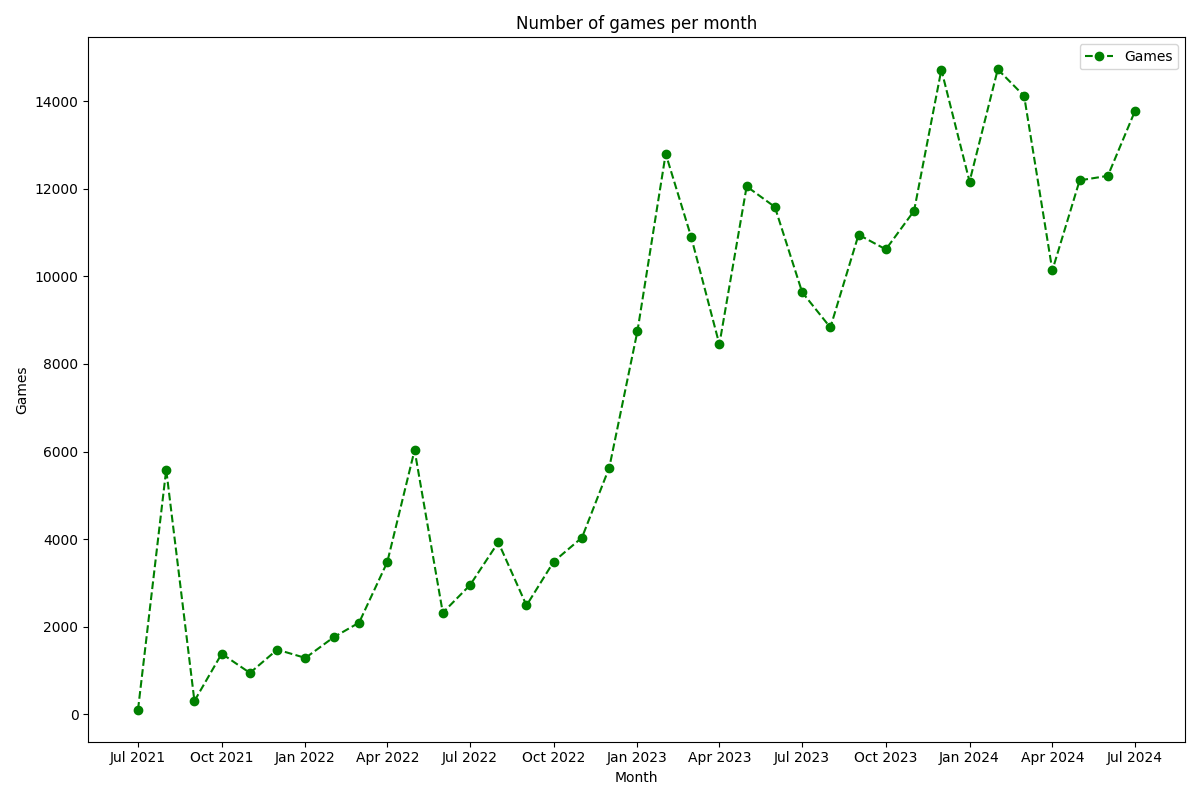
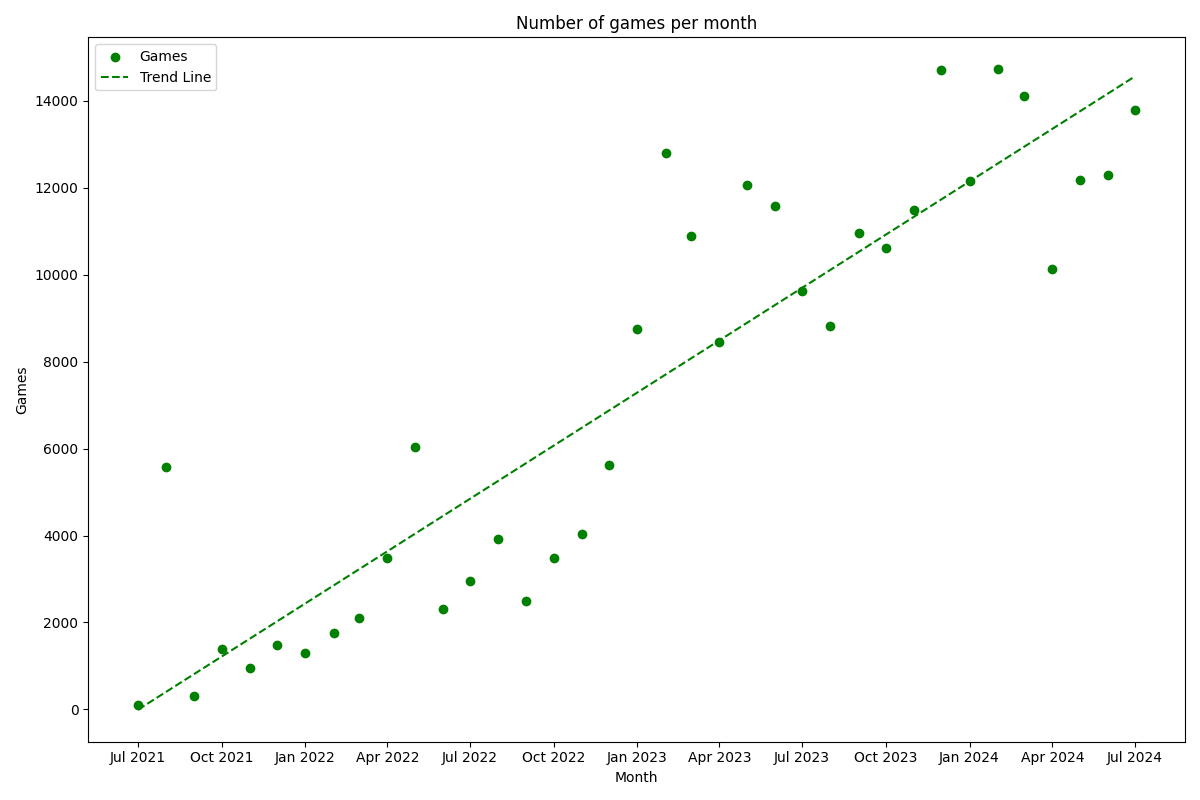
Converting to a scatter graph and adding a line of best fit

diff --git a/csvreader.py b/csvreader.py
@@ -2,6 +2,7 @@ import csv
 import matplotlib.pyplot as plt
 import matplotlib.dates as mdates
 from datetime import date
+import numpy as np
 
 x= []
 y =[]
@@ -20,16 +21,22 @@ with open('games.csv','r') as csvfile:
         year = int(row[0])
 
         date_time_value = mdates.date2num(date(year,month,1))
+        date_time_num = mdates.date2num(date_time_value)
         formatter = mdates.ConciseDateFormatter(date_time_value)
 
         x.append(date_time_value)
         y.append(int(row[2]))
-         
 
+x1 = np.array(x)
+y1 = np.array(y)
+
+coefficients = np.polyfit(x1, y1, 1)
+function = np.poly1d(coefficients)
+trend_line = function(x1)
          
 plt.figure(figsize=(12, 8))   
-plt.plot(x, y, color = 'g',linestyle = 'dashed', 
-         marker = 'o', label = "Games")
+plt.scatter(x, y, color='g', label='Games')
+plt.plot(x, trend_line, linestyle='--', color='g', label='Trend Line')
 plt.gca().xaxis.set_major_formatter(mdates.DateFormatter('%b %Y'))
 plt.gca().xaxis.set_major_locator(mdates.MonthLocator(interval = 3)) 
 plt.xlabel('Month') 
